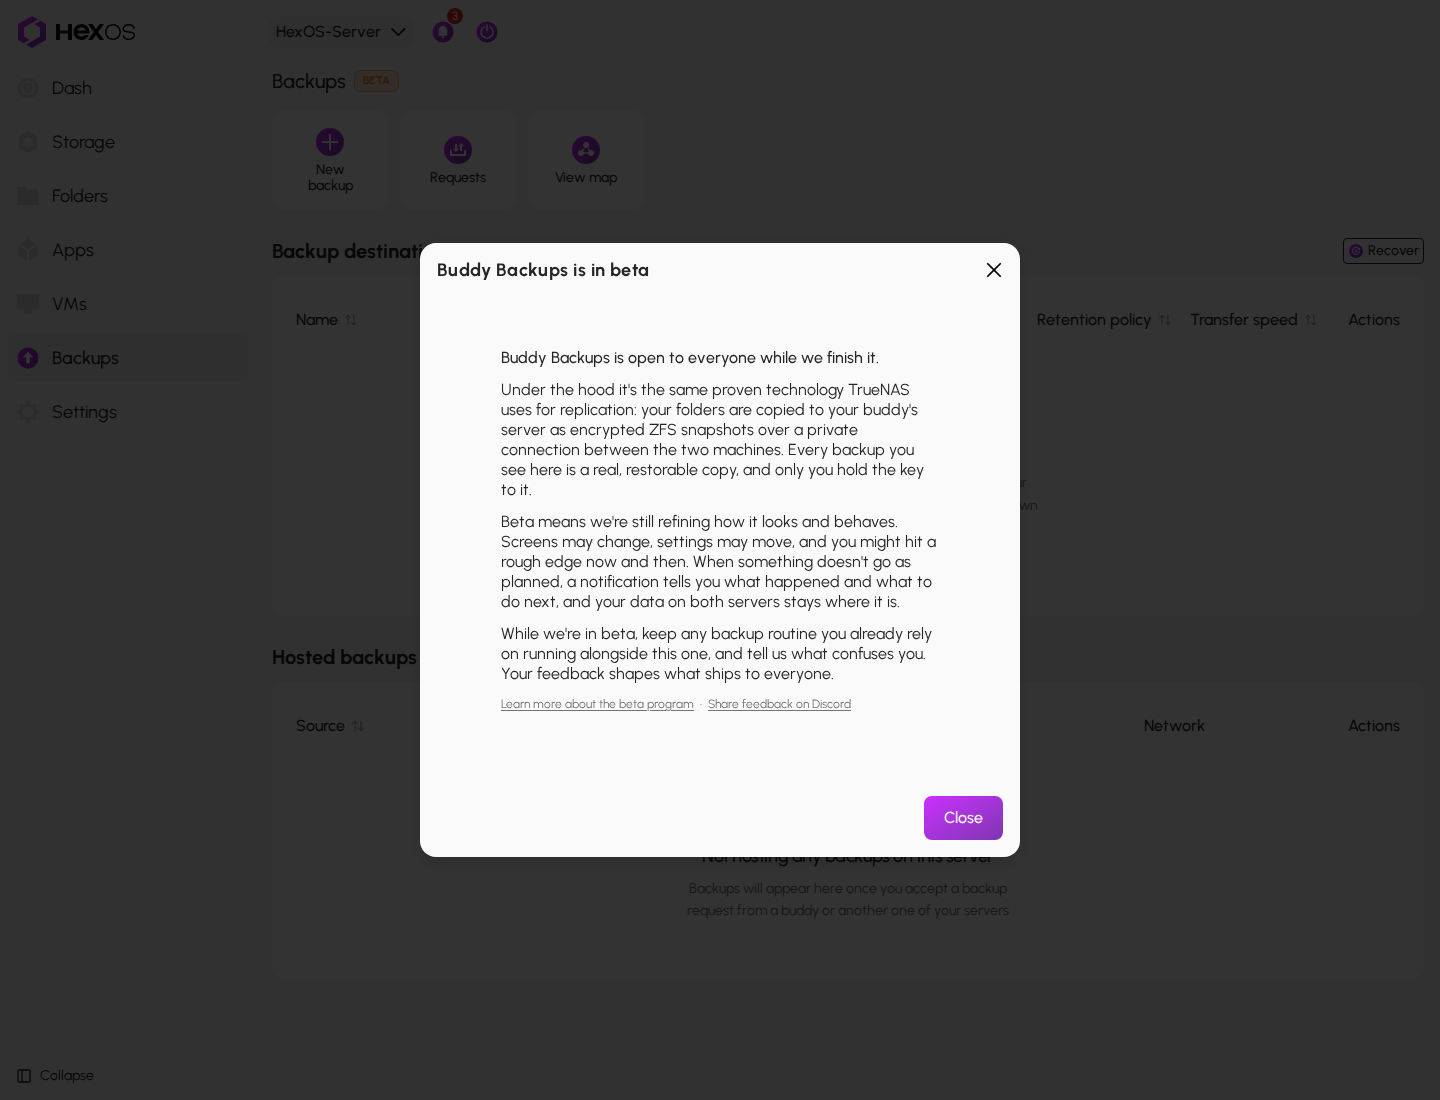
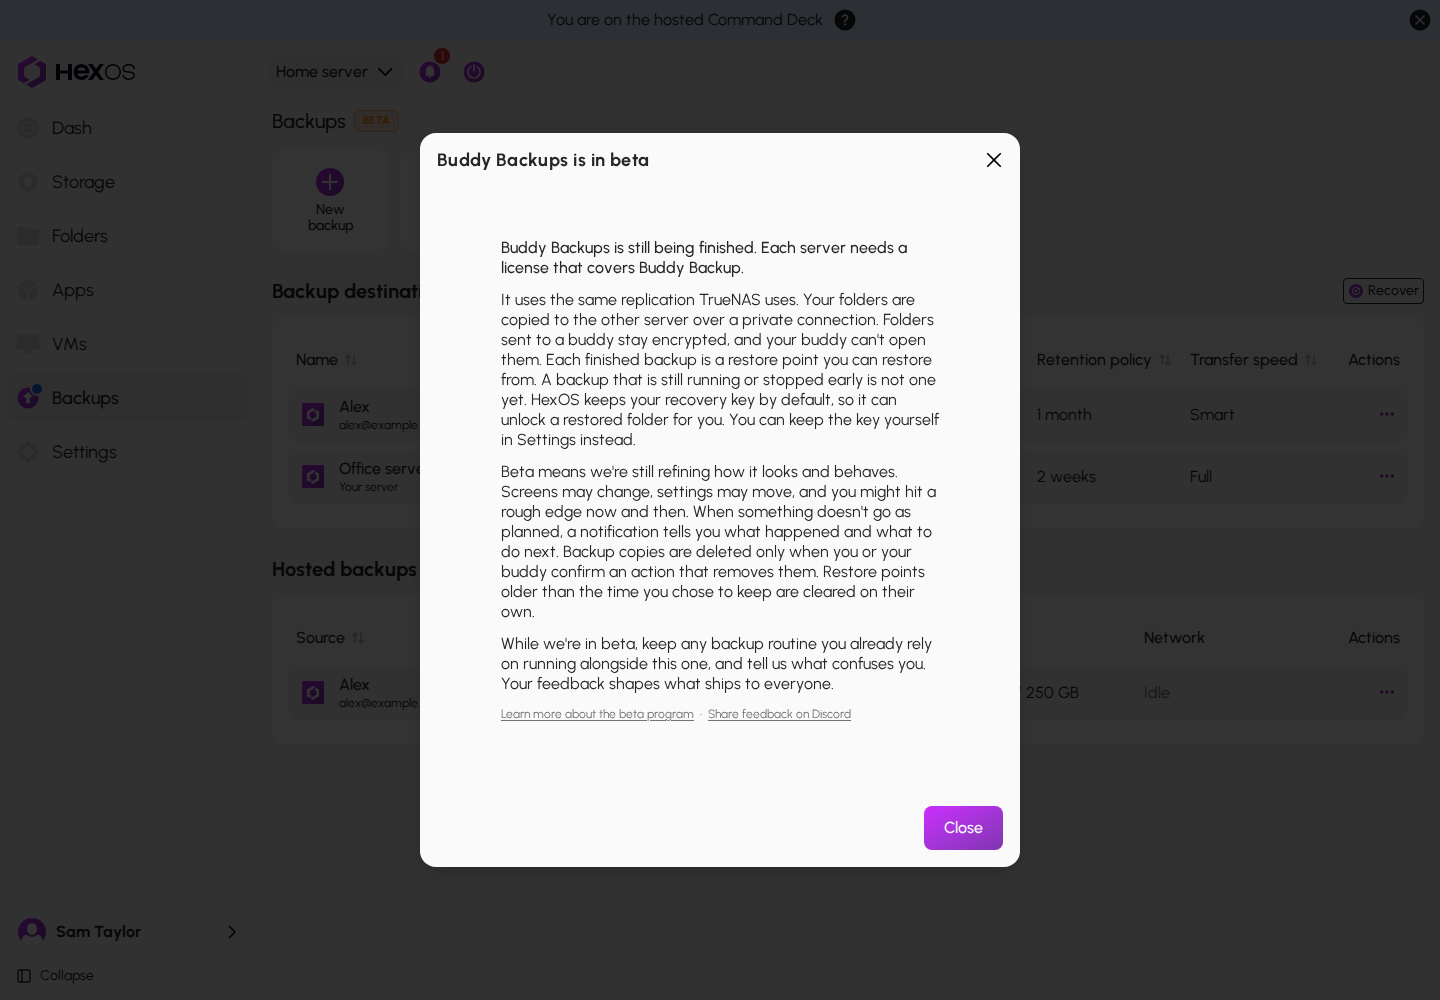
docs: Correct the Buddy Backups and Virtual Machines beta promises to match the Command Deck

diff --git a/community/beta-programs/buddy-backups-and-virtual-machines.md b/community/beta-programs/buddy-backups-and-virtual-machines.md
@@ -1,6 +1,6 @@
 ---
 title: Buddy Backups and Virtual Machines beta
-description: Buddy Backups and Virtual Machines are open betas for everyone. What beta means and what we ask of you
+description: Buddy Backups and Virtual Machines are in beta. What beta means, what you need, and what we ask of you
 published: true
 date: 2026-10-07T00:00:00.000Z
 tags: community, beta, buddy backups, virtual machines
@@ -10,7 +10,7 @@ dateCreated: 2026-09-08T12:00:00.000Z
 
 # Buddy Backups and Virtual Machines beta
 
-Buddy Backups and Virtual Machines are both open betas. Everyone has them, with no sign-up and nothing to install.
+Buddy Backups and Virtual Machines are both in beta. There is no sign-up and nothing to install. Each one needs a license that covers it.
 
 For the other programs running now, see [Beta programs](/community/beta-programs).
 
@@ -24,9 +24,13 @@ What you tell us shapes what reaches everyone. The beta channel on Discord is re
 
 ## Buddy Backups: open beta
 
-Buddy Backups keeps a copy of your folders on a buddy's server or on a second server of your own. It is on for every HexOS account. There is nothing to sign up for and nothing to install. Click **Backups** in the sidebar of the hosted Command Deck to start.
+Buddy Backups keeps a copy of your folders on a buddy's server or on a second server of your own. There is nothing to sign up for and nothing to install. Each server in a backup needs a license that covers Buddy Backup. Without one, its backups pause, and everything already stored stays. Click **Backups** in the sidebar of the hosted Command Deck to start.
 
-Every backup it makes is a real copy you can restore. It uses the same replication that TrueNAS itself uses.
+Each finished backup is a restore point you can restore. A backup that is still running or stopped early is not one yet. It uses the same replication that TrueNAS itself uses.
+
+Folders sent to a buddy stay encrypted, and your buddy cannot open them. HexOS keeps your recovery key by default, so it can unlock a restored folder for you. You can keep the key yourself in **Settings** instead.
+
+Backup copies are deleted only when you or your buddy confirm an action that removes them. Restore points older than the time you chose to keep are removed automatically.
 
 > **Warning:** While Buddy Backups is in beta, keep any backup you already rely on running alongside it.
 {.is-warning}
@@ -41,7 +45,7 @@ Before you remove anything, read [Removing backups](/features/backups/removing-b
 
 ## Virtual Machines: open beta
 
-Virtual Machines lets you run Windows, Linux, and small appliance systems such as Home Assistant OS on your HexOS server. It is on for every HexOS account. There is nothing to sign up for and nothing to install. Click **VMs** in the sidebar to start.
+Virtual Machines lets you run Windows, Linux, and small appliance systems such as Home Assistant OS on your HexOS server. There is nothing to sign up for and nothing to install. Creating and running a VM needs a license that covers VM controls. Click **VMs** in the sidebar to start.
 
 Every VM is a real computer on your server. It runs on the same virtualization that TrueNAS uses, and its disks are stored on your own pools.
 

diff --git a/community/beta-programs.md b/community/beta-programs.md
@@ -16,7 +16,7 @@ This page lists the programs running now and explains how to take part.
 
 ## What being in a beta means
 
-In an invite-only beta, the feature is switched on for your account. In an open beta, it is on for everyone. Either way there is nothing extra to install. You use it as you normally would, and you tell us what you expected and what actually happened.
+In an invite-only beta, the feature is switched on for your account. In an open beta, there is no invite and no sign-up, but the feature can still need a license that covers it. Either way there is nothing extra to install. You use it as you normally would, and you tell us what you expected and what actually happened.
 
 A feature in beta works on your real data. Beta means we are still finishing it: screens may change, and you may find a rough edge. What we learn from you shapes how it reaches everyone. There is no minimum commitment and no deadline.
 
@@ -33,11 +33,11 @@ If you have a question before you sign up, ask in the [HexOS Discord Community](
 
 ### Buddy Backups: open beta
 
-Back up your folders to a friend's server or a second server of your own. Buddy Backups is open to everyone while we finish it. There is no sign-up: click **Backups** in the sidebar of the hosted Command Deck to start. See [what the Buddy Backups beta means](/community/beta-programs/buddy-backups-and-virtual-machines) and the [Buddy Backups](/features/backups) guide.
+Back up your folders to a friend's server or a second server of your own. Buddy Backups is in beta while we finish it. Each server in a backup needs a license that covers Buddy Backup. There is no sign-up: click **Backups** in the sidebar of the hosted Command Deck to start. See [what the Buddy Backups beta means](/community/beta-programs/buddy-backups-and-virtual-machines) and the [Buddy Backups](/features/backups) guide.
 
 ### Virtual Machines: open beta
 
-Run Windows, Linux, and small appliance systems such as Home Assistant OS on your HexOS server. Virtual Machines is open to everyone while we finish it, and so is VM setup, where HexOS finishes setting up some systems after they start. There is no sign-up: click **VMs** in the sidebar to start. See [what the Virtual Machines beta means](/community/beta-programs/buddy-backups-and-virtual-machines#virtual-machines-open-beta) and the [VMs](/features/vms) guide.
+Run Windows, Linux, and small appliance systems such as Home Assistant OS on your HexOS server. Virtual Machines is in beta while we finish it, and so is VM setup, where HexOS finishes setting up some systems after they start. Creating and running a VM needs a license that covers VM controls. There is no sign-up: click **VMs** in the sidebar to start. See [what the Virtual Machines beta means](/community/beta-programs/buddy-backups-and-virtual-machines#virtual-machines-open-beta) and the [VMs](/features/vms) guide.
 
 ### App curation
 

diff --git a/features.md b/features.md
@@ -85,7 +85,7 @@ From the Apps screen you can
 
 ## Backups
 
-The Backups screen keeps a copy of your folders on a buddy's server or on another server you own. Buddy Backups is in beta and open to everyone. It works on the hosted Command Deck at [deck.hexos.com](https://deck.hexos.com).
+The Backups screen keeps a copy of your folders on a buddy's server or on another server you own. Buddy Backups is in beta. Each server in a backup needs a license that covers Buddy Backup. It works on the hosted Command Deck at [deck.hexos.com](https://deck.hexos.com).
 
 From the Backups screen you can
 - Set up a new backup
@@ -99,7 +99,7 @@ From the Backups screen you can
 
 ## Virtual Machines
 
-The VMs screen runs other computers inside your server: Windows, a Linux desktop, or a small appliance system such as Home Assistant OS or Plex Media Server. Virtual Machines is in beta and open to everyone. Your server needs at least 4 processor cores, 8 GB of memory, and 32 GB of free space on a pool.
+The VMs screen runs other computers inside your server: Windows, a Linux desktop, or a small appliance system such as Home Assistant OS or Plex Media Server. Virtual Machines is in beta. Creating and running a VM needs a license that covers VM controls. Your server needs at least 4 processor cores, 8 GB of memory, and 32 GB of free space on a pool.
 
 From the VMs screen you can
 - Set up a VM from the catalog, with the operating system and apps installed for you

diff --git a/features/backups.md b/features/backups.md
@@ -21,7 +21,7 @@ Folders you send to a buddy are encrypted. Your files sit on their server, but t
 
 Buddy Backups is in beta. Feature access and a connection to HexOS services are required. The Command Deck shows a **Beta** badge next to **Backups**. Click it to read a short note about the beta.
 
-> **Info:** Some wording in the current beta note is too broad. Feature access is required. Wait for a completed backup and test a restore before relying on it. With managed recovery, HexOS can recover your key while you are signed in. Confirmed removal can delete stored copies. Retention settings can remove older restore points.
+> **Info:** Each server in a backup needs a license that covers Buddy Backup. Wait for a completed backup and test a restore before relying on it. With managed recovery, HexOS can recover your key while you are signed in. Confirmed removal can delete stored copies. Retention settings can remove older restore points.
 {.is-info}
 
 <details>

diff --git a/features/vms.md b/features/vms.md
@@ -19,7 +19,7 @@ HexOS does most of the work. Choose a system from the catalog, and HexOS creates
 
 ## What beta means
 
-Virtual Machines is an open beta. It is on for everyone, with no sign-up. The **VMs** screens show a **Beta** badge. Click it to read a short note about the beta.
+Virtual Machines is in beta. There is no sign-up. Creating and running a VM needs a license that covers VM controls. The **VMs** screens show a **Beta** badge. Click it to read a short note about the beta.
 
 <details>
 <summary> The Beta badge's note </summary>
